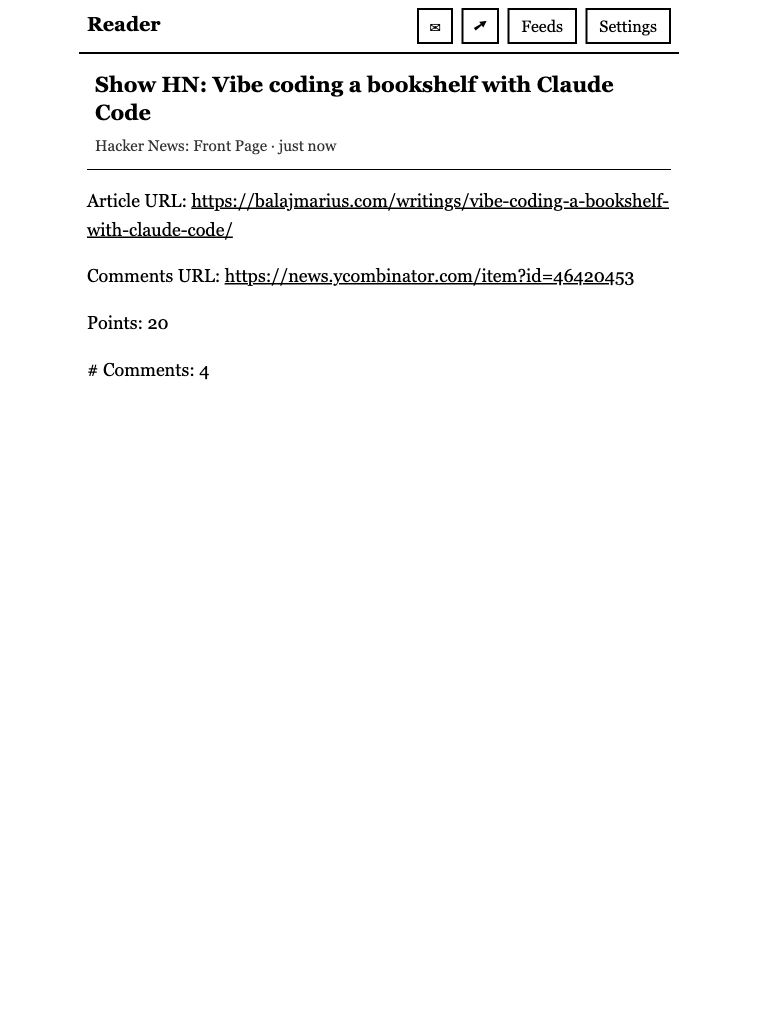
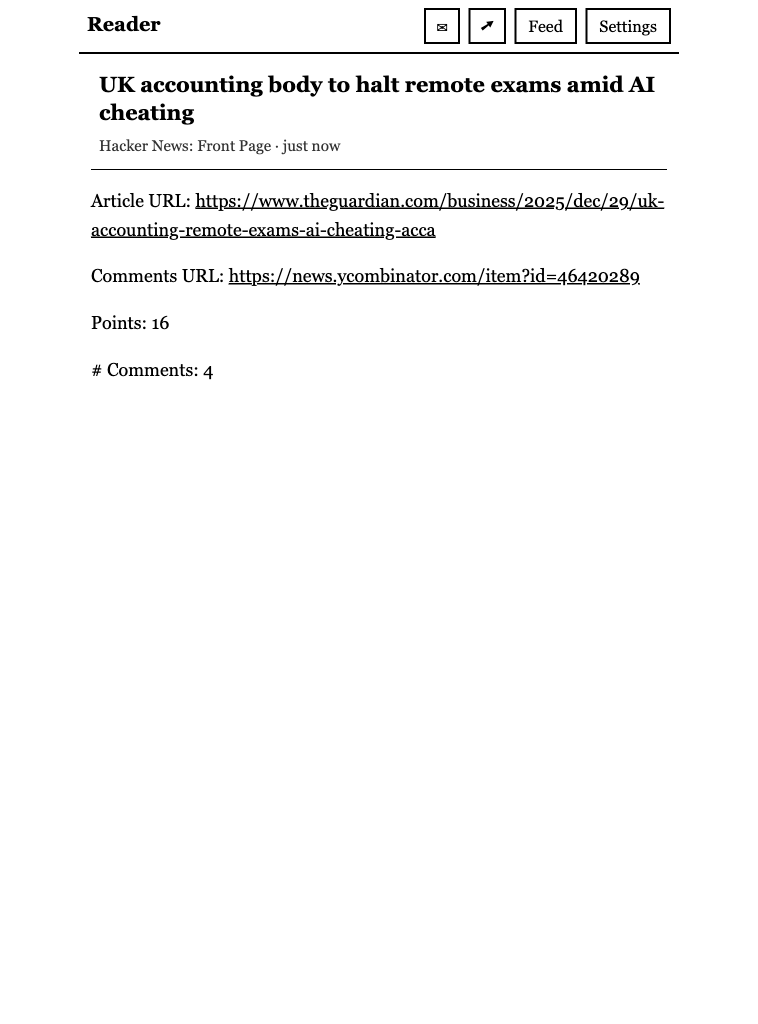
split out feed edit page + update readme

Changed region(s): [[0.1214, 0.1875, 0.8799, 0.2812], [0.1214, 0.0, 0.8799, 0.1562], [0.1214, 0.3125, 0.2731, 0.375]]

diff --git a/app/templates/feeds.html b/app/templates/feeds.html
@@ -3,9 +3,7 @@
 {% block title %}Manage Feeds - E-Ink Reader{% endblock %}
 
 {% block content %}
-<a href="/" class="back-btn">&larr; Back</a>
-
-<h1 style="font-size: 1.1rem; margin-bottom: 16px;">Manage Feeds</h1>
+<h1 style="font-size: 1.1rem; margin-bottom: 16px;">Feeds</h1>
 
 {% if message %}
 <div class="message">{{ message }}</div>
@@ -15,46 +13,7 @@
 <div class="message error">{{ error }}</div>
 {% endif %}
 
-{% if feeds %}
-<div class="feed-list">
-    {% for feed in feeds %}
-    <div class="feed-card">
-        <div class="feed-title">{{ feed.title or feed.url }}</div>
-        <div class="feed-meta">{{ feed.article_count }} articles</div>
-
-        {% if feed.labels %}
-        <div class="feed-labels">
-            {% for label in feed.labels %}
-            <span class="label-tag">{{ label }}</span>
-            {% endfor %}
-        </div>
-        {% endif %}
-
-        <form method="post" action="/feeds/{{ feed.id }}/labels" style="margin-bottom: 8px;">
-            <input type="text" name="labels" value="{{ feed.labels | join(', ') }}"
-                   placeholder="Labels (comma-separated)" style="margin-bottom: 4px;">
-            <button type="submit" class="btn btn-small">Update Labels</button>
-        </form>
-
-        <div class="feed-actions">
-            <form method="post" action="/feeds/{{ feed.id }}/refresh">
-                <button type="submit" class="btn btn-small">Refresh</button>
-            </form>
-            <form method="post" action="/feeds/{{ feed.id }}/delete"
-                  onsubmit="return confirm('Delete this feed and all its articles?')">
-                <button type="submit" class="btn btn-small btn-danger">Remove</button>
-            </form>
-        </div>
-    </div>
-    {% endfor %}
-</div>
-{% else %}
-<div class="empty-state">
-    <p>No feeds yet. Add one below.</p>
-</div>
-{% endif %}
-
-<div class="add-feed-form">
+<div class="add-feed-form" style="margin-bottom: 16px; padding-bottom: 16px; border-bottom: 1px solid #000;">
     <h2>Add Feed</h2>
     <form method="post" action="/feeds/add">
         <label for="url">Feed URL</label>
@@ -66,4 +25,22 @@
         <button type="submit" class="btn btn-block">Add Feed</button>
     </form>
 </div>
+
+{% if feeds %}
+<div class="feed-list">
+    {% for feed in feeds %}
+    <a href="/feeds/{{ feed.id }}" class="feed-card-link">
+        <div class="feed-title">{{ feed.title or feed.url }}</div>
+        <div class="feed-meta">
+            {{ feed.article_count }} articles
+            {% if feed.labels %} · {{ feed.labels | join(', ') }}{% endif %}
+        </div>
+    </a>
+    {% endfor %}
+</div>
+{% else %}
+<div class="empty-state">
+    <p>No feeds yet. Add one above.</p>
+</div>
+{% endif %}
 {% endblock %}

diff --git a/app/templates/feed_detail.html b/app/templates/feed_detail.html
@@ -1,0 +1,45 @@
+{% extends "base.html" %}
+
+{% block title %}{{ feed.title or "Feed" }} - E-Ink Reader{% endblock %}
+
+{% block content %}
+<h1 style="font-size: 1.1rem; margin-bottom: 8px;">{{ feed.title or "Untitled Feed" }}</h1>
+<div class="feed-meta" style="margin-bottom: 16px;">
+    {{ feed.article_count }} articles
+</div>
+
+{% if message %}
+<div class="message">{{ message }}</div>
+{% endif %}
+
+{% if error %}
+<div class="message error">{{ error }}</div>
+{% endif %}
+
+<div class="feed-detail-section">
+    <label for="url">Feed URL</label>
+    <div class="feed-url">{{ feed.url }}</div>
+</div>
+
+<div class="feed-detail-section">
+    <form method="post" action="/feeds/{{ feed.id }}/labels">
+        <label for="labels">Labels (comma-separated)</label>
+        <input type="text" id="labels" name="labels" value="{{ feed.labels | join(', ') }}"
+               placeholder="news, tech">
+        <button type="submit" class="btn btn-block">Update Labels</button>
+    </form>
+</div>
+
+<div class="feed-detail-section">
+    <form method="post" action="/feeds/{{ feed.id }}/refresh">
+        <button type="submit" class="btn btn-block">Refresh Feed</button>
+    </form>
+</div>
+
+<div class="feed-detail-section">
+    <form method="post" action="/feeds/{{ feed.id }}/delete"
+          onsubmit="return confirm('Delete this feed and all its articles?')">
+        <button type="submit" class="btn btn-block btn-danger">Remove Feed</button>
+    </form>
+</div>
+{% endblock %}

diff --git a/static/style.css b/static/style.css
@@ -519,15 +519,32 @@ label {
     margin-bottom: 4px;
 }
 
-.feed-actions {
-    margin-top: 8px;
+.feed-card-link {
+    border: 2px solid #000;
+    padding: 12px;
+    margin-bottom: 12px;
+    display: block;
+    text-decoration: none;
+    color: #000;
 }
 
-.feed-actions .btn,
-.feed-actions .btn-small,
-.feed-actions button {
-    margin-right: 8px;
-    margin-bottom: 8px;
+.feed-card-link:active {
+    background: #eee;
+}
+
+.feed-detail-section {
+    margin-bottom: 16px;
+    padding-bottom: 16px;
+    border-bottom: 1px solid #ccc;
+}
+
+.feed-url {
+    font-family: monospace;
+    font-size: 0.85rem;
+    word-break: break-all;
+    padding: 8px;
+    border: 1px solid #ccc;
+    background: #f5f5f5;
 }
 
 /* Add feed form */

diff --git a/app/templates/article.html b/app/templates/article.html
@@ -4,11 +4,17 @@
 
 {% block header_controls %}
 <form method="post" action="/article/{{ article.id }}/unread" style="display:inline;margin:0">
+    <input type="hidden" name="redirect" value="{{ back_url }}">
     <button type="submit" class="nav-btn nav-icon" title="Mark Unread">✉</button>
 </form>
 {% if article.link %}
 <a href="{{ article.link }}" class="nav-btn nav-icon" target="_blank" title="Open Original">➚</a>
 {% endif %}
+{% endblock %}
+
+{% block header_nav %}
+<a href="/feeds/{{ article.feed_id }}" class="nav-btn">Feed</a>
+<a href="/settings" class="nav-btn">Settings</a>
 {% endblock %}
 
 {% block content %}

diff --git a/app/templates/base.html b/app/templates/base.html
@@ -12,8 +12,10 @@
             <a href="/" class="logo">Reader</a>
             <nav>
                 {% block header_controls %}{% endblock %}
+                {% block header_nav %}
                 <a href="/feeds" class="nav-btn">Feeds</a>
                 <a href="/settings" class="nav-btn">Settings</a>
+                {% endblock %}
             </nav>
         </div>
     </header>

diff --git a/app/templates/settings.html b/app/templates/settings.html
@@ -3,10 +3,6 @@
 {% block title %}Settings - E-Ink Reader{% endblock %}
 
 {% block content %}
-{% if user_key %}
-<a href="/" class="back-btn">&larr; Back</a>
-{% endif %}
-
 <h1 style="font-size: 1.1rem; margin-bottom: 16px;">Settings</h1>
 
 <div class="settings-section">

diff --git a/app/routers/pages.py b/app/routers/pages.py
@@ -160,6 +160,7 @@ async def mark_unread(
     article_id: int,
     db: Annotated[Database, Depends(get_db)],
     request: Request,
+    redirect: Annotated[str, Form()] = "/",
 ):
     """Mark article as unread."""
     user_key = get_user_key(request)
@@ -170,8 +171,7 @@ async def mark_unread(
     if user:
         await crud.mark_article_unread(db, user.id, article_id)
 
-    referer = request.headers.get("referer", "/")
-    return RedirectResponse(url=referer, status_code=302)
+    return RedirectResponse(url=redirect, status_code=302)
 
 
 # ============== Feeds Page ==============
@@ -200,6 +200,38 @@ async def feeds_page(
         "feeds.html",
         {
             "feeds": feeds,
+            "message": message,
+            "error": error,
+        },
+    )
+
+
+@router.get("/feeds/{feed_id}", response_class=HTMLResponse)
+async def feed_detail(
+    request: Request,
+    feed_id: int,
+    db: Annotated[Database, Depends(get_db)],
+    message: str | None = Query(None),
+    error: str | None = Query(None),
+):
+    """Feed detail page."""
+    user_key = get_user_key(request)
+    if not user_key:
+        return RedirectResponse(url="/settings", status_code=302)
+
+    user = await crud.get_user_by_key(db, user_key)
+    if not user:
+        return RedirectResponse(url="/settings", status_code=302)
+
+    feed = await crud.get_feed(db, feed_id)
+    if not feed or feed.user_id != user.id:
+        return RedirectResponse(url="/feeds?error=Feed+not+found", status_code=302)
+
+    return templates.TemplateResponse(
+        request,
+        "feed_detail.html",
+        {
+            "feed": feed,
             "message": message,
             "error": error,
         },
@@ -282,9 +314,9 @@ async def refresh_single_feed(
 
     try:
         count = await refresh_feed(db, feed_id)
-        return RedirectResponse(url=f"/feeds?message=Refreshed,+{count}+new+articles", status_code=302)
+        return RedirectResponse(url=f"/feeds/{feed_id}?message=Refreshed,+{count}+new+articles", status_code=302)
     except (FeedFetchError, FeedParseError):
-        return RedirectResponse(url="/feeds?error=Refresh+failed", status_code=302)
+        return RedirectResponse(url=f"/feeds/{feed_id}?error=Refresh+failed", status_code=302)
 
 
 @router.post("/feeds/refresh")
@@ -333,7 +365,7 @@ async def update_labels(
     label_list = [lbl.strip().lower() for lbl in labels.split(",") if lbl.strip()]
     await crud.set_feed_labels(db, feed_id, label_list)
 
-    return RedirectResponse(url="/feeds?message=Labels+updated", status_code=302)
+    return RedirectResponse(url=f"/feeds/{feed_id}?message=Labels+updated", status_code=302)
 
 
 # ============== Settings Page ==============

diff --git a/README.md b/README.md
@@ -4,9 +4,17 @@ A minimal, self-hosted RSS/Atom feed reader optimized for e-ink displays (Kindle
 
 ## Screenshots
 
-| Home | Article | Feeds | Settings |
-|------|---------|-------|----------|
-| ![Home](screenshots/home.png) | ![Article](screenshots/article.png) | ![Feeds](screenshots/feeds.png) | ![Settings](screenshots/settings.png) |
+| Home | Article |
+|------|---------|
+| ![Home](screenshots/home.png) | ![Article](screenshots/article.png) |
+
+| Feeds | Feed Detail |
+|-------|-------------|
+| ![Feeds](screenshots/feeds.png) | ![Feed Detail](screenshots/feed-detail.png) |
+
+| Settings |
+|----------|
+| ![Settings](screenshots/settings.png) |
 
 ## Features
 
